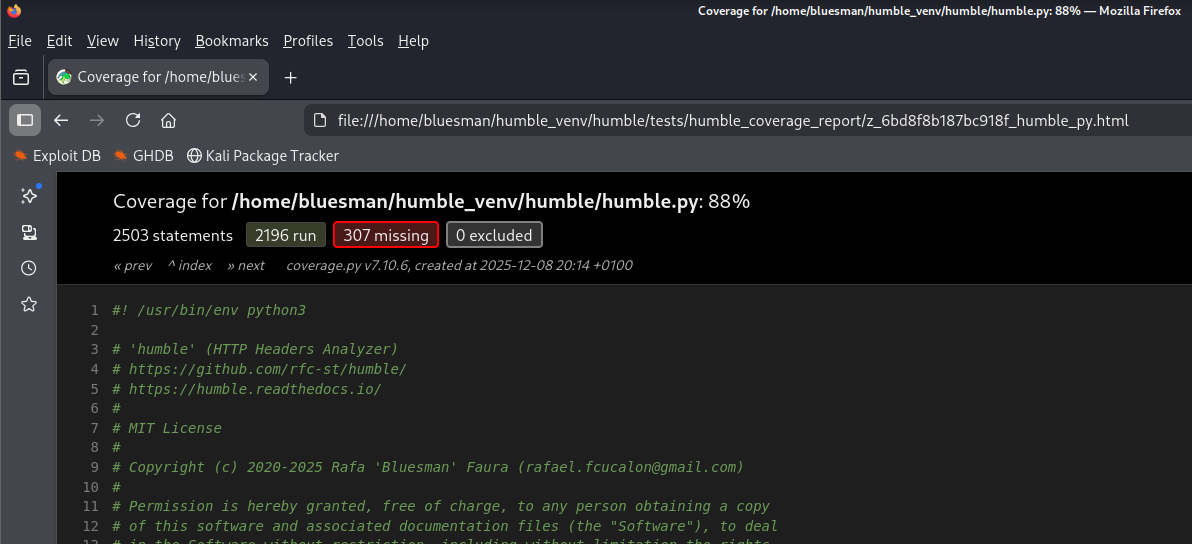
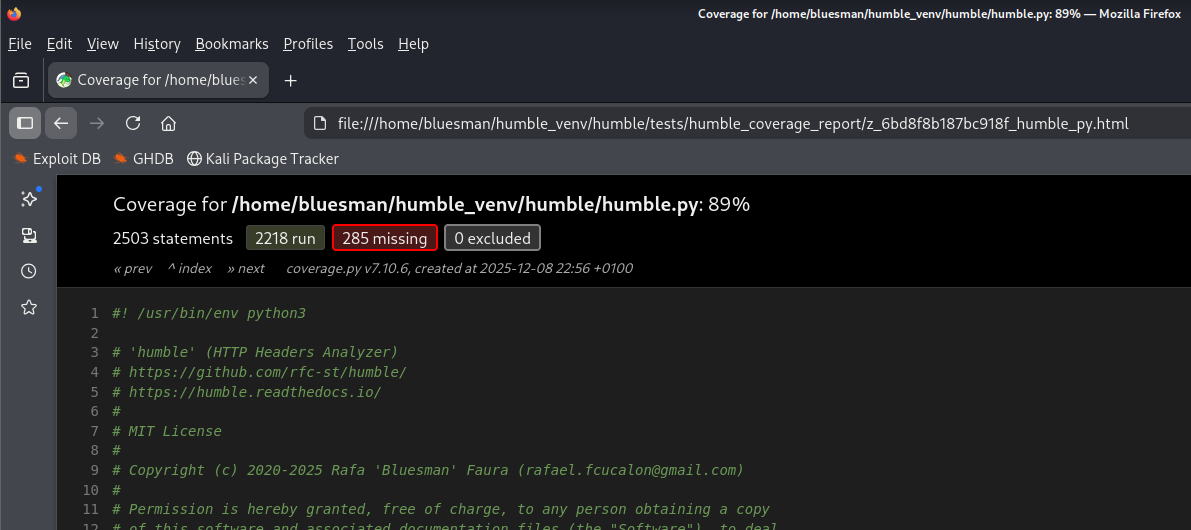
Feature: 2 new unit tests and 89% code coverage

diff --git a/tests/test_basic.py b/tests/test_basic.py
@@ -30,8 +30,10 @@ HUMBLE_INSECURE_INPUT_URL = 'http://github.com'
 HUMBLE_L10N_DIR = path.join(HUMBLE_PROJECT_ROOT, 'l10n')
 HUMBLE_L10N_FILE = ('details.txt', 'details_es.txt')
 HUMBLE_MAIN_FILE = path.abspath(path.join(HUMBLE_TESTS_DIR, '..', 'humble.py'))
-HUMBLE_STATISTICS_URL = 'https://en.wikipedia.org/'
+HUMBLE_STATISTICS_URL = 'https://en.wikipedia.org'
+HUMBLE_INSUFFICIENT_STATISTICS_URL = 'https://microsoft.com'
 INPUT_FILE_URL = "https://github.com"
+PROXY_UNREACHABLE = "http://127.0.0.1:65535"
 REQUIRED_PYTHON = (3, 11)
 TEST_RUSSIAN_URL = 'https://tass.ru/'
 TEST_URL = 'https://google.com'
@@ -66,6 +68,8 @@ TEST_CFGS = {
     'test_license': (['-lic'], 'copyright'),
     'test_owasp_compliance': (['-u', TEST_URL, '-c'],
                               'non-recommended values'),
+    'test_proxy_unreachable': (['-u', TEST_URL, '-p', PROXY_UNREACHABLE],
+                               'reachable'),
     'test_redirects': (['-u', TEST_URL, '-df'], 'Analysis Grade:'),
     'test_request_headers': (
         ['-u', TEST_URL, '-H', 'Cache-Control: no-cache', '-H',
@@ -80,8 +84,11 @@ TEST_CFGS = {
     'test_unsupported_header': (['-u', TEST_URL, '-s', 'testhumbleheader'],
                                 'testhumbleheader'),
     'test_updates': (['-v'], 'Keeping your security tools'),
-    'test_url_statistics': (['-u', HUMBLE_STATISTICS_URL, '-a'],
-                            'Empty headers'),
+    'test_url_statistics': (['-if', HUMBLE_HEADERS_FILE, '-u',
+                             HUMBLE_STATISTICS_URL, '-a'], 'Empty headers'),
+    'test_url_insufficient_statistics': (['-if', HUMBLE_HEADERS_FILE, '-u',
+                                          HUMBLE_INSUFFICIENT_STATISTICS_URL,
+                                          '-a'], 'reliable'),
     'test_user_agent': (['-u', TEST_URL, '-ua', '4'],
                         'Selected the User-Agent'),
     'test_user_agent_list': (['-ua', '0'], 'source: '),
@@ -96,12 +103,14 @@ TEST_SUMMS = ('[test_help]', '[test_all_headers]', '[test_unsafe_all_headers]',
               '[test_fingerprint_term_no_results]', '[test_global_statistics]',
               '[test_input_file]', '[test_input_traversal]',
               '[test_l10n_analysis]', '[test_l10n_grades]', '[test_license]',
-              '[test_owasp_compliance]', '[test_redirects]',
-              '[test_request_headers]', '[test_response_headers]',
-              '[test_russian_block]', '[test_security_guidelines]',
-              '[test_skipped_headers]', '[test_unsupported_header]',
-              '[test_updates]', '[test_url_statistics]', '[test_user_agent]',
-              '[test_user_agent_list]', '[test_python_version]')
+              '[test_owasp_compliance]', '[test_proxy_unreachable]',
+              '[test_redirects]', '[test_request_headers]',
+              '[test_response_headers]', '[test_russian_block]',
+              '[test_security_guidelines]', '[test_skipped_headers]',
+              '[test_unsupported_header]', '[test_updates]',
+              '[test_url_statistics]', '[test_url_insufficient_statistics]',
+              '[test_user_agent]', '[test_user_agent_list]',
+              '[test_python_version]')
 
 
 class _Args:

diff --git a/README.md b/README.md
@@ -23,7 +23,7 @@
 <a target="_blank" href="https://github.com/rfc-st/humble/actions/workflows/bandit-security-scan.yml" title="Results of the last analysis of this tool with bandit, for critical or high vulnerabilities"><img src="https://github.com/rfc-st/humble/actions/workflows/bandit-security-scan.yml/badge.svg"></a>
 <a target="_blank" href="https://github.com/rfc-st/humble/actions/workflows/codeql-analysis.yml?query=workflow%3ACodeQL" title="CodeQL security analysis passed"><img src="https://github.com/rfc-st/humble/workflows/CodeQL/badge.svg"></a>
 <a target="_blank" href="https://humble.readthedocs.io/en/latest/" title="humble documentation status"><img src="https://img.shields.io/badge/documentation-passing-32bd50?labelColor=343b41"></a>
-<a target="_blank" href="https://github.com/rfc-st/humble/?tab=readme-ov-file#unit-tests" title="humble code coverage"><img src="https://img.shields.io/badge/code%20coverage-88%25-f9d71c?labelColor=343b41"></a>
+<a target="_blank" href="https://github.com/rfc-st/humble/?tab=readme-ov-file#unit-tests" title="humble code coverage"><img src="https://img.shields.io/badge/code%20coverage-89%25-f9d71c?labelColor=343b41"></a>
 <a target="_blank" href="https://www.bestpractices.dev/projects/9543" title="OpenSSF best practices analysis"><img src="https://www.bestpractices.dev/projects/9543/badge"></a>
 <br />
 <br />
